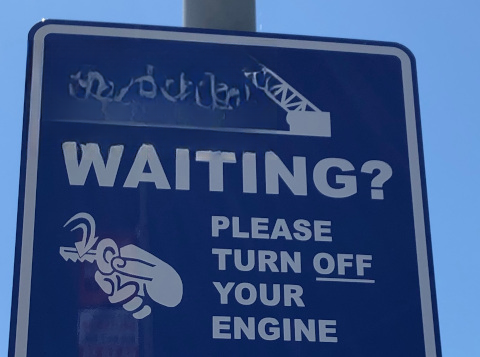
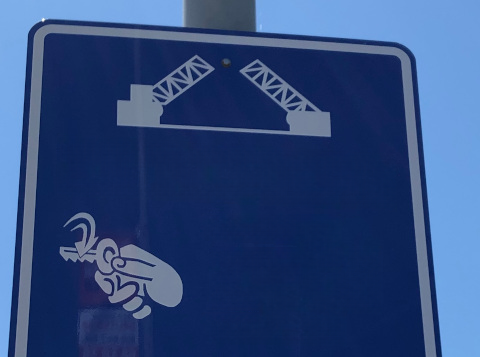
parameter fixed

diff --git a/inpainting_model/remove_anything.py b/inpainting_model/remove_anything.py
@@ -62,5 +62,5 @@ if __name__ == "__main__":
     out_dir.mkdir(parents=True, exist_ok=True)
 
     img_inpainted_p = out_dir / f"inpainted_result_image.png"
-    img_inpainted = inpaint_img_with_lama(img, args.lama_config, args.lama_ckpt, device=device)
+    img_inpainted = inpaint_img_with_lama(img, args.lama_config, args.lama_ckpt, args.coord, device=device)
     save_array_to_img(img_inpainted, img_inpainted_p)
